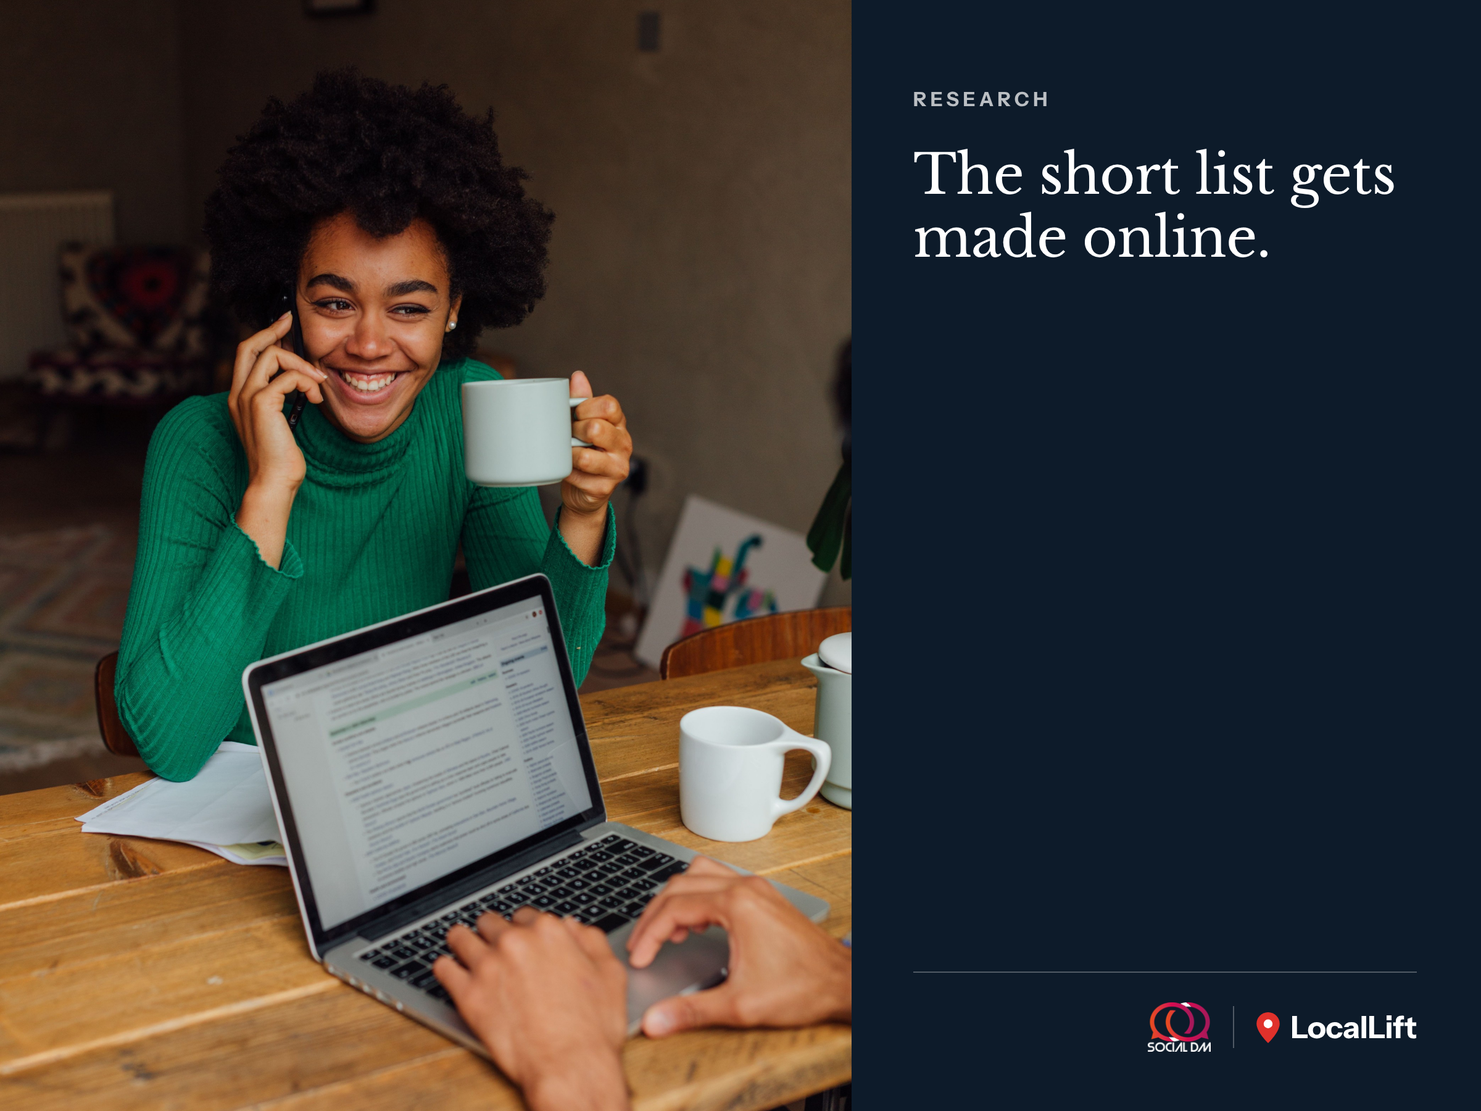
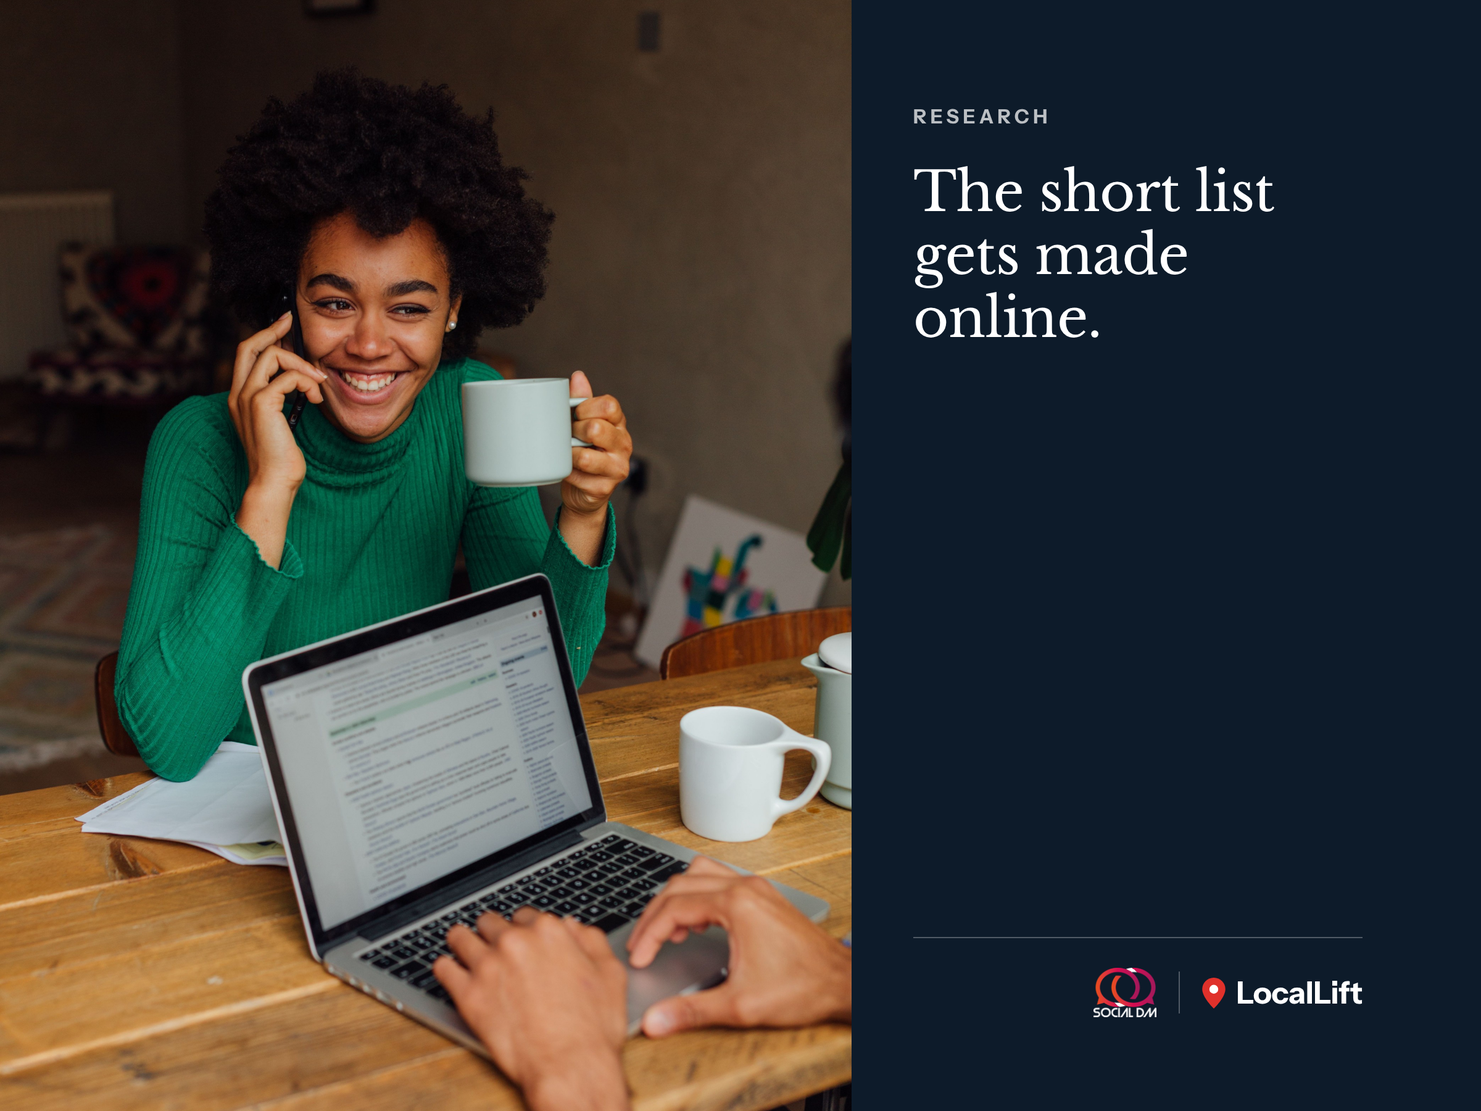
Google editor fixes for SocialDM Oct 29 to Nov 11
Claude-Session: https://claude.ai/code/session_01APSB1jK8qoXw95SiRRn3ox

Changed region(s): [[0.5938, 0.0622, 0.9375, 0.3111], [0.7188, 0.8711, 0.9688, 0.9644]]

diff --git a/social/socialdm-2026-11-mix/src/g-1102.html b/social/socialdm-2026-11-mix/src/g-1102.html
@@ -17,10 +17,10 @@ body{overflow:hidden;position:relative;font-family:IS,sans-serif;-webkit-font-sm
 .ll svg{width:19px;height:25px}
 .photo{position:absolute;background-size:cover;background-position:center}
 body{width:1200px;height:900px}</style></head><body>
-<div class="photo" style="left:0;top:0;bottom:0;width:690px;background-image:url(ph/19290185.jpg);background-position:45% center"></div>
+<div class="photo" style="left:0;top:0;bottom:0;width:690px;background-image:url(ph/34490278.jpg);background-position:center 60%"></div>
 <div style="position:absolute;left:690px;right:0;top:0;bottom:0;background:var(--paper)"></div>
-<div style="position:absolute;left:740px;right:52px;top:70px;color:var(--navy)">
+<div style="position:absolute;left:740px;right:96px;top:84px;color:var(--navy)">
  <div class="eyebrow" style="font-size:16px;color:var(--mute)">Apartment SEO</div>
  <h1 class="lb" style="font-size:44px;line-height:1.16;margin-top:26px">Good SEO is a steady drive, not a teleport.</h1>
 </div>
-<div class="foot" style="left:740px;right:52px;bottom:48px;border-top:1px solid var(--rule);color:var(--mute)"><span></span><div class="logos"><img src="sdm-dark.png"><span class="div" style="background:var(--rule)"></span><span class="ll" style="color:var(--navy)"><svg viewBox="0 0 24 32"><path d="M12 0C5.4 0 0 5.3 0 11.9 0 20.8 12 32 12 32s12-11.2 12-20.1C24 5.3 18.6 0 12 0z" fill="#E0312B"/><circle cx="12" cy="12" r="4.6" fill="#fff"/></svg>LocalLift</span></div></div></body></html>
+<div class="foot" style="left:740px;right:96px;bottom:76px;border-top:1px solid var(--rule);color:var(--mute)"><span></span><div class="logos"><img src="sdm-dark.png"><span class="div" style="background:var(--rule)"></span><span class="ll" style="color:var(--navy)"><svg viewBox="0 0 24 32"><path d="M12 0C5.4 0 0 5.3 0 11.9 0 20.8 12 32 12 32s12-11.2 12-20.1C24 5.3 18.6 0 12 0z" fill="#E0312B"/><circle cx="12" cy="12" r="4.6" fill="#fff"/></svg>LocalLift</span></div></div></body></html>

diff --git a/social/socialdm-2026-11-mix/src/g-1110.html b/social/socialdm-2026-11-mix/src/g-1110.html
@@ -17,10 +17,10 @@ body{overflow:hidden;position:relative;font-family:IS,sans-serif;-webkit-font-sm
 .ll svg{width:19px;height:25px}
 .photo{position:absolute;background-size:cover;background-position:center}
 body{width:1200px;height:900px}</style></head><body>
-<div class="photo" style="left:0;top:0;bottom:0;width:690px;background-image:url(ph/7710077.jpg);background-position:center 30%"></div>
+<div class="photo" style="left:0;top:0;bottom:0;width:690px;background-image:url(ph/7710077.jpg);background-position:100% 30%"></div>
 <div style="position:absolute;left:690px;right:0;top:0;bottom:0;background:var(--paper)"></div>
-<div style="position:absolute;left:740px;right:52px;top:70px;color:var(--navy)">
+<div style="position:absolute;left:740px;right:96px;top:84px;color:var(--navy)">
  <div class="eyebrow" style="font-size:16px;color:var(--mute)">One team</div>
  <h1 class="lb" style="font-size:44px;line-height:1.16;margin-top:26px">One plan across every channel.</h1>
 </div>
-<div class="foot" style="left:740px;right:52px;bottom:48px;border-top:1px solid var(--rule);color:var(--mute)"><span></span><div class="logos"><img src="sdm-dark.png"><span class="div" style="background:var(--rule)"></span><span class="ll" style="color:var(--navy)"><svg viewBox="0 0 24 32"><path d="M12 0C5.4 0 0 5.3 0 11.9 0 20.8 12 32 12 32s12-11.2 12-20.1C24 5.3 18.6 0 12 0z" fill="#E0312B"/><circle cx="12" cy="12" r="4.6" fill="#fff"/></svg>LocalLift</span></div></div></body></html>
+<div class="foot" style="left:740px;right:96px;bottom:76px;border-top:1px solid var(--rule);color:var(--mute)"><span></span><div class="logos"><img src="sdm-dark.png"><span class="div" style="background:var(--rule)"></span><span class="ll" style="color:var(--navy)"><svg viewBox="0 0 24 32"><path d="M12 0C5.4 0 0 5.3 0 11.9 0 20.8 12 32 12 32s12-11.2 12-20.1C24 5.3 18.6 0 12 0z" fill="#E0312B"/><circle cx="12" cy="12" r="4.6" fill="#fff"/></svg>LocalLift</span></div></div></body></html>

diff --git a/social/socialdm-2026-11-mix/src/g-1030.html b/social/socialdm-2026-11-mix/src/g-1030.html
@@ -19,9 +19,9 @@ body{overflow:hidden;position:relative;font-family:IS,sans-serif;-webkit-font-sm
 body{width:1200px;height:900px}</style></head><body>
 <div class="photo" style="inset:0;background-image:url(ph/31528818.jpg);background-position:center 55%"></div>
 <div style="position:absolute;inset:0;background:linear-gradient(0deg,rgba(13,27,42,.92) 0%,rgba(13,27,42,.55) 34%,rgba(13,27,42,0) 62%)"></div>
-<div style="position:absolute;left:64px;right:64px;bottom:150px;color:#fff">
+<div style="position:absolute;left:96px;right:96px;bottom:176px;color:#fff">
  <div style="width:56px;height:4px;background:var(--lime);margin-bottom:22px"></div>
  <div class="eyebrow" style="font-size:16px;color:rgba(255,255,255,.8);margin-bottom:16px">Google Maps</div>
  <h1 class="lb" style="font-size:54px;line-height:1.1">Your listing should look as fresh as the street.</h1>
 </div>
-<div class="foot" style="left:64px;right:64px;bottom:48px;border-top:1px solid rgba(255,255,255,.28);color:rgba(255,255,255,.75)"><span>thesocialdm.com</span><div class="logos"><img src="sdm-white.png"><span class="div" style="background:rgba(255,255,255,.28)"></span><span class="ll" style="color:#fff"><svg viewBox="0 0 24 32"><path d="M12 0C5.4 0 0 5.3 0 11.9 0 20.8 12 32 12 32s12-11.2 12-20.1C24 5.3 18.6 0 12 0z" fill="#E0312B"/><circle cx="12" cy="12" r="4.6" fill="#fff"/></svg>LocalLift</span></div></div></body></html>
+<div class="foot" style="left:96px;right:96px;bottom:76px;border-top:1px solid rgba(255,255,255,.28);color:rgba(255,255,255,.75)"><span>thesocialdm.com</span><div class="logos"><img src="sdm-white.png"><span class="div" style="background:rgba(255,255,255,.28)"></span><span class="ll" style="color:#fff"><svg viewBox="0 0 24 32"><path d="M12 0C5.4 0 0 5.3 0 11.9 0 20.8 12 32 12 32s12-11.2 12-20.1C24 5.3 18.6 0 12 0z" fill="#E0312B"/><circle cx="12" cy="12" r="4.6" fill="#fff"/></svg>LocalLift</span></div></div></body></html>

diff --git a/social/socialdm-2026-11-mix/src/g-1101.html b/social/socialdm-2026-11-mix/src/g-1101.html
@@ -19,9 +19,9 @@ body{overflow:hidden;position:relative;font-family:IS,sans-serif;-webkit-font-sm
 body{width:1200px;height:900px}</style></head><body>
 <div class="photo" style="inset:0;background-image:url(ph/31418279.jpg);background-position:center 60%"></div>
 <div style="position:absolute;inset:0;background:linear-gradient(0deg,rgba(13,27,42,.92) 0%,rgba(13,27,42,.55) 34%,rgba(13,27,42,0) 62%)"></div>
-<div style="position:absolute;left:64px;right:64px;bottom:150px;color:#fff">
+<div style="position:absolute;left:96px;right:96px;bottom:176px;color:#fff">
  <div style="width:56px;height:4px;background:var(--lime);margin-bottom:22px"></div>
  <div class="eyebrow" style="font-size:16px;color:rgba(255,255,255,.8);margin-bottom:16px">The 2026 report</div>
  <h1 class="lb" style="font-size:54px;line-height:1.1">Being online is not the same as being found.</h1>
 </div>
-<div class="foot" style="left:64px;right:64px;bottom:48px;border-top:1px solid rgba(255,255,255,.28);color:rgba(255,255,255,.75)"><span>thesocialdm.com</span><div class="logos"><img src="sdm-white.png"><span class="div" style="background:rgba(255,255,255,.28)"></span><span class="ll" style="color:#fff"><svg viewBox="0 0 24 32"><path d="M12 0C5.4 0 0 5.3 0 11.9 0 20.8 12 32 12 32s12-11.2 12-20.1C24 5.3 18.6 0 12 0z" fill="#E0312B"/><circle cx="12" cy="12" r="4.6" fill="#fff"/></svg>LocalLift</span></div></div></body></html>
+<div class="foot" style="left:96px;right:96px;bottom:76px;border-top:1px solid rgba(255,255,255,.28);color:rgba(255,255,255,.75)"><span>thesocialdm.com</span><div class="logos"><img src="sdm-white.png"><span class="div" style="background:rgba(255,255,255,.28)"></span><span class="ll" style="color:#fff"><svg viewBox="0 0 24 32"><path d="M12 0C5.4 0 0 5.3 0 11.9 0 20.8 12 32 12 32s12-11.2 12-20.1C24 5.3 18.6 0 12 0z" fill="#E0312B"/><circle cx="12" cy="12" r="4.6" fill="#fff"/></svg>LocalLift</span></div></div></body></html>

diff --git a/social/socialdm-2026-11-mix/src/g-1105.html b/social/socialdm-2026-11-mix/src/g-1105.html
@@ -19,9 +19,9 @@ body{overflow:hidden;position:relative;font-family:IS,sans-serif;-webkit-font-sm
 body{width:1200px;height:900px}</style></head><body>
 <div class="photo" style="inset:0;background-image:url(ph/32189195.jpg);background-position:center 45%"></div>
 <div style="position:absolute;inset:0;background:linear-gradient(0deg,rgba(13,27,42,.92) 0%,rgba(13,27,42,.55) 34%,rgba(13,27,42,0) 62%)"></div>
-<div style="position:absolute;left:64px;right:64px;bottom:150px;color:#fff">
+<div style="position:absolute;left:96px;right:96px;bottom:176px;color:#fff">
  <div style="width:56px;height:4px;background:var(--lime);margin-bottom:22px"></div>
  <div class="eyebrow" style="font-size:16px;color:rgba(255,255,255,.8);margin-bottom:16px">Choosing an agency</div>
  <h1 class="lb" style="font-size:54px;line-height:1.1">See the fruit before you pay for it.</h1>
 </div>
-<div class="foot" style="left:64px;right:64px;bottom:48px;border-top:1px solid rgba(255,255,255,.28);color:rgba(255,255,255,.75)"><span>thesocialdm.com</span><div class="logos"><img src="sdm-white.png"><span class="div" style="background:rgba(255,255,255,.28)"></span><span class="ll" style="color:#fff"><svg viewBox="0 0 24 32"><path d="M12 0C5.4 0 0 5.3 0 11.9 0 20.8 12 32 12 32s12-11.2 12-20.1C24 5.3 18.6 0 12 0z" fill="#E0312B"/><circle cx="12" cy="12" r="4.6" fill="#fff"/></svg>LocalLift</span></div></div></body></html>
+<div class="foot" style="left:96px;right:96px;bottom:76px;border-top:1px solid rgba(255,255,255,.28);color:rgba(255,255,255,.75)"><span>thesocialdm.com</span><div class="logos"><img src="sdm-white.png"><span class="div" style="background:rgba(255,255,255,.28)"></span><span class="ll" style="color:#fff"><svg viewBox="0 0 24 32"><path d="M12 0C5.4 0 0 5.3 0 11.9 0 20.8 12 32 12 32s12-11.2 12-20.1C24 5.3 18.6 0 12 0z" fill="#E0312B"/><circle cx="12" cy="12" r="4.6" fill="#fff"/></svg>LocalLift</span></div></div></body></html>

diff --git a/social/socialdm-2026-11-mix/src/g-1109.html b/social/socialdm-2026-11-mix/src/g-1109.html
@@ -19,9 +19,9 @@ body{overflow:hidden;position:relative;font-family:IS,sans-serif;-webkit-font-sm
 body{width:1200px;height:900px}</style></head><body>
 <div class="photo" style="inset:0;background-image:url(ph/7647206.jpg);background-position:center 30%"></div>
 <div style="position:absolute;inset:0;background:linear-gradient(0deg,rgba(13,27,42,.92) 0%,rgba(13,27,42,.55) 34%,rgba(13,27,42,0) 62%)"></div>
-<div style="position:absolute;left:64px;right:64px;bottom:150px;color:#fff">
+<div style="position:absolute;left:96px;right:96px;bottom:176px;color:#fff">
  <div style="width:56px;height:4px;background:var(--lime);margin-bottom:22px"></div>
  <div class="eyebrow" style="font-size:16px;color:rgba(255,255,255,.8);margin-bottom:16px">Lease ups</div>
  <h1 class="lb" style="font-size:54px;line-height:1.1">A new community starts with no search history.</h1>
 </div>
-<div class="foot" style="left:64px;right:64px;bottom:48px;border-top:1px solid rgba(255,255,255,.28);color:rgba(255,255,255,.75)"><span>thesocialdm.com</span><div class="logos"><img src="sdm-white.png"><span class="div" style="background:rgba(255,255,255,.28)"></span><span class="ll" style="color:#fff"><svg viewBox="0 0 24 32"><path d="M12 0C5.4 0 0 5.3 0 11.9 0 20.8 12 32 12 32s12-11.2 12-20.1C24 5.3 18.6 0 12 0z" fill="#E0312B"/><circle cx="12" cy="12" r="4.6" fill="#fff"/></svg>LocalLift</span></div></div></body></html>
+<div class="foot" style="left:96px;right:96px;bottom:76px;border-top:1px solid rgba(255,255,255,.28);color:rgba(255,255,255,.75)"><span>thesocialdm.com</span><div class="logos"><img src="sdm-white.png"><span class="div" style="background:rgba(255,255,255,.28)"></span><span class="ll" style="color:#fff"><svg viewBox="0 0 24 32"><path d="M12 0C5.4 0 0 5.3 0 11.9 0 20.8 12 32 12 32s12-11.2 12-20.1C24 5.3 18.6 0 12 0z" fill="#E0312B"/><circle cx="12" cy="12" r="4.6" fill="#fff"/></svg>LocalLift</span></div></div></body></html>

diff --git a/social/socialdm-2026-11-mix/src/g-1103.html b/social/socialdm-2026-11-mix/src/g-1103.html
@@ -19,9 +19,9 @@ body{overflow:hidden;position:relative;font-family:IS,sans-serif;-webkit-font-sm
 body{width:1200px;height:900px}</style></head><body>
 <div class="photo" style="inset:0;background-image:url(ph/5748631.jpg);background-position:60% 40%"></div>
 <div style="position:absolute;inset:0;background:linear-gradient(0deg,rgba(13,27,42,.92) 0%,rgba(13,27,42,.55) 34%,rgba(13,27,42,0) 62%)"></div>
-<div style="position:absolute;left:64px;right:64px;bottom:150px;color:#fff">
+<div style="position:absolute;left:96px;right:96px;bottom:176px;color:#fff">
  <div style="width:56px;height:4px;background:var(--lime);margin-bottom:22px"></div>
  <div class="eyebrow" style="font-size:16px;color:rgba(255,255,255,.8);margin-bottom:16px">Local search</div>
  <h1 class="lb" style="font-size:54px;line-height:1.1">Renters search neighborhoods, not apartments.</h1>
 </div>
-<div class="foot" style="left:64px;right:64px;bottom:48px;border-top:1px solid rgba(255,255,255,.28);color:rgba(255,255,255,.75)"><span>thesocialdm.com</span><div class="logos"><img src="sdm-white.png"><span class="div" style="background:rgba(255,255,255,.28)"></span><span class="ll" style="color:#fff"><svg viewBox="0 0 24 32"><path d="M12 0C5.4 0 0 5.3 0 11.9 0 20.8 12 32 12 32s12-11.2 12-20.1C24 5.3 18.6 0 12 0z" fill="#E0312B"/><circle cx="12" cy="12" r="4.6" fill="#fff"/></svg>LocalLift</span></div></div></body></html>
+<div class="foot" style="left:96px;right:96px;bottom:76px;border-top:1px solid rgba(255,255,255,.28);color:rgba(255,255,255,.75)"><span>thesocialdm.com</span><div class="logos"><img src="sdm-white.png"><span class="div" style="background:rgba(255,255,255,.28)"></span><span class="ll" style="color:#fff"><svg viewBox="0 0 24 32"><path d="M12 0C5.4 0 0 5.3 0 11.9 0 20.8 12 32 12 32s12-11.2 12-20.1C24 5.3 18.6 0 12 0z" fill="#E0312B"/><circle cx="12" cy="12" r="4.6" fill="#fff"/></svg>LocalLift</span></div></div></body></html>

diff --git a/social/socialdm-2026-11-mix/src/g-1111.html b/social/socialdm-2026-11-mix/src/g-1111.html
@@ -19,9 +19,9 @@ body{overflow:hidden;position:relative;font-family:IS,sans-serif;-webkit-font-sm
 body{width:1200px;height:900px}</style></head><body>
 <div class="photo" style="inset:0;background-image:url(ph/27307398.jpg);background-position:center 40%"></div>
 <div style="position:absolute;inset:0;background:linear-gradient(0deg,rgba(13,27,42,.92) 0%,rgba(13,27,42,.55) 34%,rgba(13,27,42,0) 62%)"></div>
-<div style="position:absolute;left:64px;right:64px;bottom:150px;color:#fff">
+<div style="position:absolute;left:96px;right:96px;bottom:176px;color:#fff">
  <div style="width:56px;height:4px;background:var(--lime);margin-bottom:22px"></div>
  <div class="eyebrow" style="font-size:16px;color:rgba(255,255,255,.8);margin-bottom:16px">Apartment SEO</div>
  <h1 class="lb" style="font-size:54px;line-height:1.1">Write the page a renter wishes existed.</h1>
 </div>
-<div class="foot" style="left:64px;right:64px;bottom:48px;border-top:1px solid rgba(255,255,255,.28);color:rgba(255,255,255,.75)"><span>thesocialdm.com</span><div class="logos"><img src="sdm-white.png"><span class="div" style="background:rgba(255,255,255,.28)"></span><span class="ll" style="color:#fff"><svg viewBox="0 0 24 32"><path d="M12 0C5.4 0 0 5.3 0 11.9 0 20.8 12 32 12 32s12-11.2 12-20.1C24 5.3 18.6 0 12 0z" fill="#E0312B"/><circle cx="12" cy="12" r="4.6" fill="#fff"/></svg>LocalLift</span></div></div></body></html>
+<div class="foot" style="left:96px;right:96px;bottom:76px;border-top:1px solid rgba(255,255,255,.28);color:rgba(255,255,255,.75)"><span>thesocialdm.com</span><div class="logos"><img src="sdm-white.png"><span class="div" style="background:rgba(255,255,255,.28)"></span><span class="ll" style="color:#fff"><svg viewBox="0 0 24 32"><path d="M12 0C5.4 0 0 5.3 0 11.9 0 20.8 12 32 12 32s12-11.2 12-20.1C24 5.3 18.6 0 12 0z" fill="#E0312B"/><circle cx="12" cy="12" r="4.6" fill="#fff"/></svg>LocalLift</span></div></div></body></html>

diff --git a/social/socialdm-2026-11-mix/src/g-1107.html b/social/socialdm-2026-11-mix/src/g-1107.html
@@ -19,9 +19,9 @@ body{overflow:hidden;position:relative;font-family:IS,sans-serif;-webkit-font-sm
 body{width:1200px;height:900px}</style></head><body>
 <div class="photo" style="inset:0;background-image:url(ph/3764173.jpg);background-position:62% 35%"></div>
 <div style="position:absolute;inset:0;background:linear-gradient(0deg,rgba(13,27,42,.92) 0%,rgba(13,27,42,.55) 34%,rgba(13,27,42,0) 62%)"></div>
-<div style="position:absolute;left:64px;right:64px;bottom:150px;color:#fff">
+<div style="position:absolute;left:96px;right:96px;bottom:176px;color:#fff">
  <div style="width:56px;height:4px;background:var(--lime);margin-bottom:22px"></div>
  <div class="eyebrow" style="font-size:16px;color:rgba(255,255,255,.8);margin-bottom:16px">Reviews</div>
  <h1 class="lb" style="font-size:54px;line-height:1.1">The next renter reads your reply.</h1>
 </div>
-<div class="foot" style="left:64px;right:64px;bottom:48px;border-top:1px solid rgba(255,255,255,.28);color:rgba(255,255,255,.75)"><span>thesocialdm.com</span><div class="logos"><img src="sdm-white.png"><span class="div" style="background:rgba(255,255,255,.28)"></span><span class="ll" style="color:#fff"><svg viewBox="0 0 24 32"><path d="M12 0C5.4 0 0 5.3 0 11.9 0 20.8 12 32 12 32s12-11.2 12-20.1C24 5.3 18.6 0 12 0z" fill="#E0312B"/><circle cx="12" cy="12" r="4.6" fill="#fff"/></svg>LocalLift</span></div></div></body></html>
+<div class="foot" style="left:96px;right:96px;bottom:76px;border-top:1px solid rgba(255,255,255,.28);color:rgba(255,255,255,.75)"><span>thesocialdm.com</span><div class="logos"><img src="sdm-white.png"><span class="div" style="background:rgba(255,255,255,.28)"></span><span class="ll" style="color:#fff"><svg viewBox="0 0 24 32"><path d="M12 0C5.4 0 0 5.3 0 11.9 0 20.8 12 32 12 32s12-11.2 12-20.1C24 5.3 18.6 0 12 0z" fill="#E0312B"/><circle cx="12" cy="12" r="4.6" fill="#fff"/></svg>LocalLift</span></div></div></body></html>

diff --git a/social/socialdm-2026-11-mix/src/g-1108.html b/social/socialdm-2026-11-mix/src/g-1108.html
@@ -19,8 +19,8 @@ body{overflow:hidden;position:relative;font-family:IS,sans-serif;-webkit-font-sm
 body{width:1200px;height:900px}</style></head><body>
 <div class="photo" style="left:0;top:0;bottom:0;width:690px;background-image:url(ph/28584802.jpg);background-position:center 50%"></div>
 <div style="position:absolute;left:690px;right:0;top:0;bottom:0;background:var(--navy)"></div>
-<div style="position:absolute;left:740px;right:52px;top:70px;color:#fff">
+<div style="position:absolute;left:740px;right:96px;top:84px;color:#fff">
  <div class="eyebrow" style="font-size:16px;color:rgba(255,255,255,.72)">The weekly check</div>
  <h1 class="lb" style="font-size:44px;line-height:1.16;margin-top:26px">Special, hours, price, reviews. Every week.</h1>
 </div>
-<div class="foot" style="left:740px;right:52px;bottom:48px;border-top:1px solid rgba(255,255,255,.28);color:rgba(255,255,255,.75)"><span></span><div class="logos"><img src="sdm-white.png"><span class="div" style="background:rgba(255,255,255,.28)"></span><span class="ll" style="color:#fff"><svg viewBox="0 0 24 32"><path d="M12 0C5.4 0 0 5.3 0 11.9 0 20.8 12 32 12 32s12-11.2 12-20.1C24 5.3 18.6 0 12 0z" fill="#E0312B"/><circle cx="12" cy="12" r="4.6" fill="#fff"/></svg>LocalLift</span></div></div></body></html>
+<div class="foot" style="left:740px;right:96px;bottom:76px;border-top:1px solid rgba(255,255,255,.28);color:rgba(255,255,255,.75)"><span></span><div class="logos"><img src="sdm-white.png"><span class="div" style="background:rgba(255,255,255,.28)"></span><span class="ll" style="color:#fff"><svg viewBox="0 0 24 32"><path d="M12 0C5.4 0 0 5.3 0 11.9 0 20.8 12 32 12 32s12-11.2 12-20.1C24 5.3 18.6 0 12 0z" fill="#E0312B"/><circle cx="12" cy="12" r="4.6" fill="#fff"/></svg>LocalLift</span></div></div></body></html>

diff --git a/social/socialdm-2026-11-mix/src/g-1031.html b/social/socialdm-2026-11-mix/src/g-1031.html
@@ -19,8 +19,8 @@ body{overflow:hidden;position:relative;font-family:IS,sans-serif;-webkit-font-sm
 body{width:1200px;height:900px}</style></head><body>
 <div class="photo" style="left:0;top:0;bottom:0;width:690px;background-image:url(ph/3142467.jpg);background-position:center 60%"></div>
 <div style="position:absolute;left:690px;right:0;top:0;bottom:0;background:var(--navy)"></div>
-<div style="position:absolute;left:740px;right:52px;top:70px;color:#fff">
+<div style="position:absolute;left:740px;right:96px;top:84px;color:#fff">
  <div class="eyebrow" style="font-size:16px;color:rgba(255,255,255,.72)">Happy Halloween</div>
  <h1 class="lb" style="font-size:44px;line-height:1.16;margin-top:26px">The front step is now a search result.</h1>
 </div>
-<div class="foot" style="left:740px;right:52px;bottom:48px;border-top:1px solid rgba(255,255,255,.28);color:rgba(255,255,255,.75)"><span></span><div class="logos"><img src="sdm-white.png"><span class="div" style="background:rgba(255,255,255,.28)"></span><span class="ll" style="color:#fff"><svg viewBox="0 0 24 32"><path d="M12 0C5.4 0 0 5.3 0 11.9 0 20.8 12 32 12 32s12-11.2 12-20.1C24 5.3 18.6 0 12 0z" fill="#E0312B"/><circle cx="12" cy="12" r="4.6" fill="#fff"/></svg>LocalLift</span></div></div></body></html>
+<div class="foot" style="left:740px;right:96px;bottom:76px;border-top:1px solid rgba(255,255,255,.28);color:rgba(255,255,255,.75)"><span></span><div class="logos"><img src="sdm-white.png"><span class="div" style="background:rgba(255,255,255,.28)"></span><span class="ll" style="color:#fff"><svg viewBox="0 0 24 32"><path d="M12 0C5.4 0 0 5.3 0 11.9 0 20.8 12 32 12 32s12-11.2 12-20.1C24 5.3 18.6 0 12 0z" fill="#E0312B"/><circle cx="12" cy="12" r="4.6" fill="#fff"/></svg>LocalLift</span></div></div></body></html>

diff --git a/social/socialdm-2026-11-mix/src/g-1104.html b/social/socialdm-2026-11-mix/src/g-1104.html
@@ -19,8 +19,8 @@ body{overflow:hidden;position:relative;font-family:IS,sans-serif;-webkit-font-sm
 body{width:1200px;height:900px}</style></head><body>
 <div class="photo" style="left:0;top:0;bottom:0;width:690px;background-image:url(ph/5332214.jpg);background-position:center 35%"></div>
 <div style="position:absolute;left:690px;right:0;top:0;bottom:0;background:var(--navy)"></div>
-<div style="position:absolute;left:740px;right:52px;top:70px;color:#fff">
+<div style="position:absolute;left:740px;right:96px;top:84px;color:#fff">
  <div class="eyebrow" style="font-size:16px;color:rgba(255,255,255,.72)">Research</div>
  <h1 class="lb" style="font-size:44px;line-height:1.16;margin-top:26px">The short list gets made online.</h1>
 </div>
-<div class="foot" style="left:740px;right:52px;bottom:48px;border-top:1px solid rgba(255,255,255,.28);color:rgba(255,255,255,.75)"><span></span><div class="logos"><img src="sdm-white.png"><span class="div" style="background:rgba(255,255,255,.28)"></span><span class="ll" style="color:#fff"><svg viewBox="0 0 24 32"><path d="M12 0C5.4 0 0 5.3 0 11.9 0 20.8 12 32 12 32s12-11.2 12-20.1C24 5.3 18.6 0 12 0z" fill="#E0312B"/><circle cx="12" cy="12" r="4.6" fill="#fff"/></svg>LocalLift</span></div></div></body></html>
+<div class="foot" style="left:740px;right:96px;bottom:76px;border-top:1px solid rgba(255,255,255,.28);color:rgba(255,255,255,.75)"><span></span><div class="logos"><img src="sdm-white.png"><span class="div" style="background:rgba(255,255,255,.28)"></span><span class="ll" style="color:#fff"><svg viewBox="0 0 24 32"><path d="M12 0C5.4 0 0 5.3 0 11.9 0 20.8 12 32 12 32s12-11.2 12-20.1C24 5.3 18.6 0 12 0z" fill="#E0312B"/><circle cx="12" cy="12" r="4.6" fill="#fff"/></svg>LocalLift</span></div></div></body></html>
